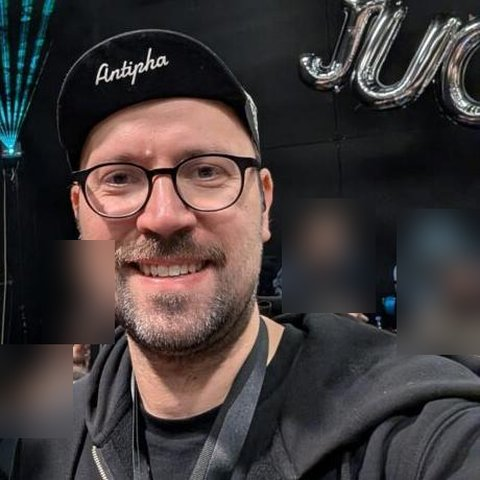
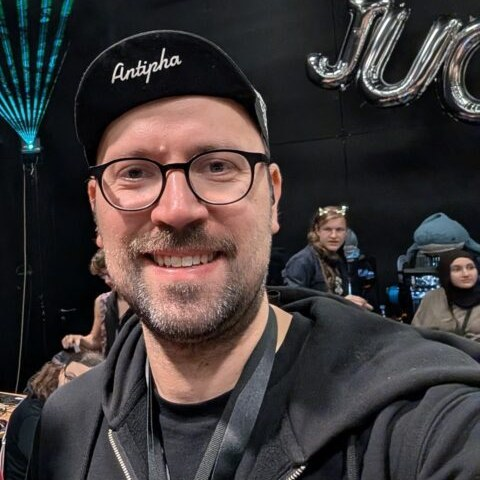
Changelog nach Keep a Changelog, Regel in CLAUDE.md; Falkos Profilfoto ohne verpixelte Gesichter

diff --git a/CHANGELOG.md b/CHANGELOG.md
@@ -1,0 +1,90 @@
+# Changelog
+
+Alle nennenswerten Änderungen an ifsmb.de stehen in dieser Datei.
+
+Das Format basiert auf [Keep a Changelog](https://keepachangelog.com/de/1.0.0/). Die Seite hat keine Versionsnummern: Jeder Abschnitt ist ein Tag, an dem Änderungen live gegangen sind (Datum im Format JJJJ-MM-TT).
+
+## [Unreleased]
+
+### Geändert
+
+- Team: Falkos Profilfoto wieder ohne verpixelte Gesichter im Hintergrund (Ausschnitt aus dem Foto im Beitrag zum Jugend Hackt Congress 2026).
+
+## [2026-11-08]
+
+### Hinzugefügt
+
+- Bearbeiten-Button: Jede Seite verlinkt ihre Quelldatei im GitHub-Editor.
+- Kalender: Besuch der KTG-AG bei der Firma von Nima am Südkreuz (März 2027, Tag noch offen).
+- Kalender: Chaos Communication Camp 2027 (August, Termin und Ort noch offen).
+- Kalender: Jugend hackt Congress 2026 – Falko zum ersten Mal als Mentor.
+- Kalender: Winterfest in der Kulturfabrik mit 3D-Druck.
+- Kalender: all about automation 2027 mit Stichwort `rosalind-franklin-gym`.
+- Projekt-Ideen: VW-Bus T3 auf Cults.
+- Treffpunkt Modellbau: Stand der Anmeldung und Links zu Falkos Mogster-Beiträgen, Stichwort `mogster`.
+- Regel für Pull Requests: zu jedem gepushten Branch ein PR mit Vorschaubildern.
+
+### Geändert
+
+- Navigation: „Projekt-Ideen“ im Menü „Wir“.
+- Projektseite: Autor*in nur anzeigen, wenn der Beitrag `author` hat.
+- Bearbeiten-Button bündig mit dem Seiteninhalt.
+- Workflow: Code-Kommentare auf Englisch.
+- Kleine Textkorrekturen in einzelnen Beiträgen.
+
+### Behoben
+
+- Suche: Workflow prüft die Pages-Quelle, README erklärt die Ursache von #13.
+
+## [2026-11-07]
+
+### Hinzugefügt
+
+- Projekte, Pressemitteilung, neue Beiträge, Partner und Termine.
+- Projekt: 3D-Druck AG an der Platanus Schule (seit September 2026); Archiv mit KTG-AG Jahr 1 und 2 und der Programmierwerkstatt am Lessing-Gymnasium.
+- Ausstattung: Prusa MK4 mit MMU, zwei Prusa MK3S, 3D-Scanner Lynx und Ferret SE mit Vergleich, LulzBot TAZ 6, LulzBot Mini, AxiDraw V3, Snapmaker U1, A1 mini der Platanus Schule, Core-XY von Anton; Übersicht nach Gerätetyp mit Status und Standort.
+- Projekt-Ideen-Seite mit der Linksammlung; Projektidee „Einen OpenScan bauen?“.
+- Angebot-Seite mit „Warum ein Institut?“ und Transparenzhinweis; Name im Impressum.
+- Persönliche Projekte und persönliche Blogs fürs Team.
+- Team: Jan, Frieder Euteneuer, Anton (mit Profilfotos und Projekten).
+- Mogster-Projekt mit mehreren persönlichen Beiträgen.
+- Volltextsuche `/suche/` mit Pagefind.
+- Stichworte verknüpfen Projekte, Beiträge, Termine und Geräte („Verknüpft“-Box).
+- Spenden: Kontakt für Materialspenden, Abschnitt „Wir sammeln Geld für folgende Projekte“.
+- Pressekontakt mit verschleierter Telefonnummer (`.obf-tel`); Logo als SVG.
+- Startseite: Slogan „Kompetent improvisieren seit gestern.“ mit Scramble-Effekt.
+- Termine: Treffpunkt Modellbau in Paaren im Glien, Chaos Communication Camp 2023, Ausflug zu happybite, Besuch von augenrahmen.de u. a.
+
+### Geändert
+
+- Navigation aufgeräumt: „Wir“ mit Projekte, Angebot, Ausstattung, Team.
+- Projekt-Updates als Zeitleiste und als eigene Beiträge.
+- Spenden-Button: alle sechs Emoji der Spendenseite kreisen.
+- Ausstattung: Rohfotos durch bereinigte Web-Versionen ersetzt.
+
+### Entfernt
+
+- Nachtschicht-Bericht aus dem Repo.
+
+### Behoben
+
+- Build: Worktree-Ordner nicht mehr als Submodule im Repo.
+- Pages-Workflow: Ruby 3.1 statt 3.1.2 (auf ubuntu-26.04 nicht verfügbar).
+
+## [2026-11-06]
+
+### Hinzugefügt
+
+- Jekyll-Seite für das Institut für spontane Makespace Buildung.
+- Kalender mit iCal-Feed, Presseseite, Pages CMS, Teamfotos und erste Beiträge.
+- Partner PC-Spende (Das macht Schule) mit Logo.
+- Termine: Herbstfest beim Zazza, Winterfest in der Kulturfabrik.
+
+### Entfernt
+
+- Beispieltermin „Offener Bastelnachmittag“.
+
+[Unreleased]: https://github.com/falkorichter/ifsmb.de/commits/main
+[2026-11-08]: https://github.com/falkorichter/ifsmb.de/commits/main/?since=2026-11-08&until=2026-11-08
+[2026-11-07]: https://github.com/falkorichter/ifsmb.de/commits/main/?since=2026-11-07&until=2026-11-07
+[2026-11-06]: https://github.com/falkorichter/ifsmb.de/commits/main/?since=2026-11-06&until=2026-11-06

diff --git a/CLAUDE.md b/CLAUDE.md
@@ -89,6 +89,10 @@ Falko schreibt Beiträge zuerst auf https://35services.de. Soll ein Beitrag hier
 - Auf Fotos auch handschriftliche Namen, Zugangscodes (z. B. Classroom-Links) und Autokennzeichen unkenntlich machen.
 - Fremde Videos (TikTok, YouTube, Instagram) nur verlinken, nie einbetten.
 
+## Changelog
+
+`CHANGELOG.md` folgt [Keep a Changelog](https://keepachangelog.com/de/1.0.0/), auf Deutsch. Jede nennenswerte Änderung kommt mit in den Commit: zuerst unter `## [Unreleased]`, sortiert nach `### Hinzugefügt`, `### Geändert`, `### Veraltet`, `### Entfernt`, `### Behoben`, `### Sicherheit`. Die Seite hat keine Versionsnummern: Beim Push nach `main` wird `[Unreleased]` zum Tagesabschnitt `## [JJJJ-MM-TT]` (neueste oben, Vergleichslinks unten pflegen). Einträge für Menschen schreiben, nicht Commit-Messages kopieren; Tippfehler-Korrekturen und reine Merges weglassen. `CHANGELOG.md` steht in `exclude` und wird nicht ausgeliefert.
+
 ## Branches und Pull Requests
 
 Wer einen Branch pusht (nicht `main`), öffnet dazu immer einen Pull Request mit `gh pr create` – auf Deutsch und mit Vorschaubildern:
